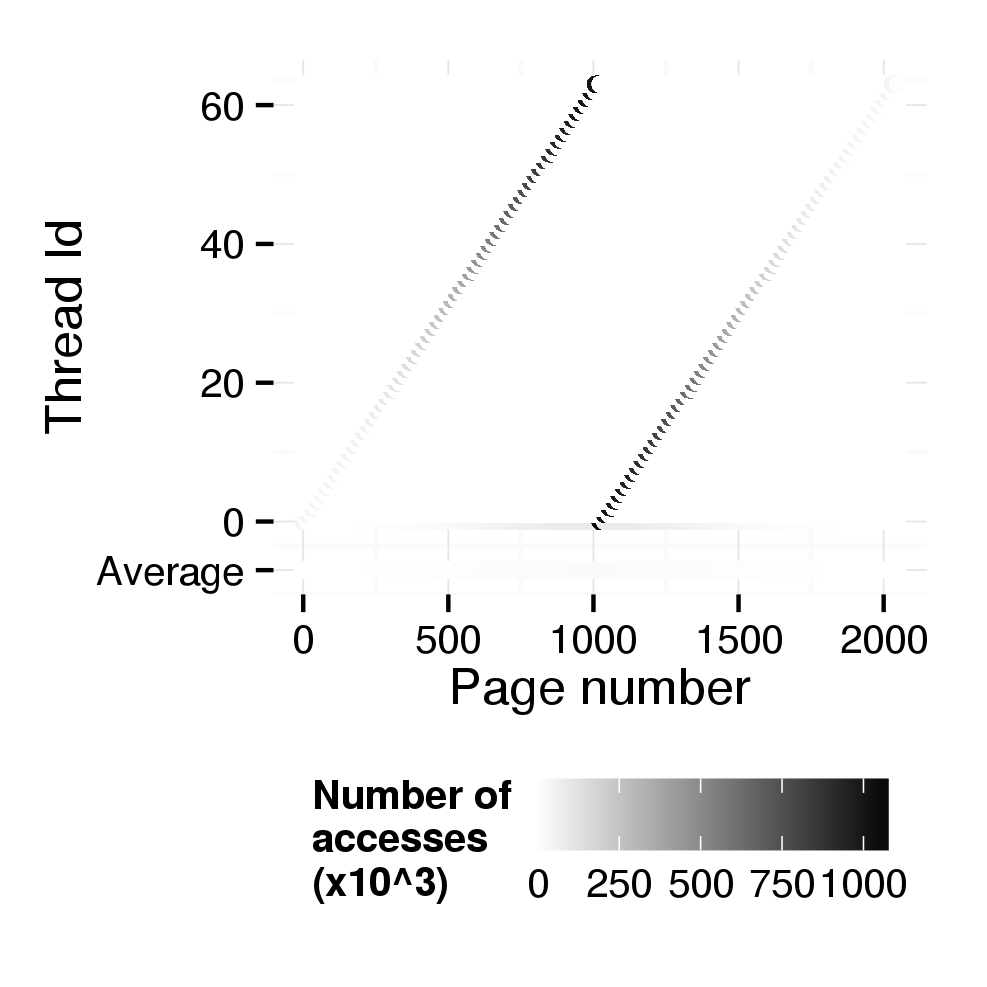
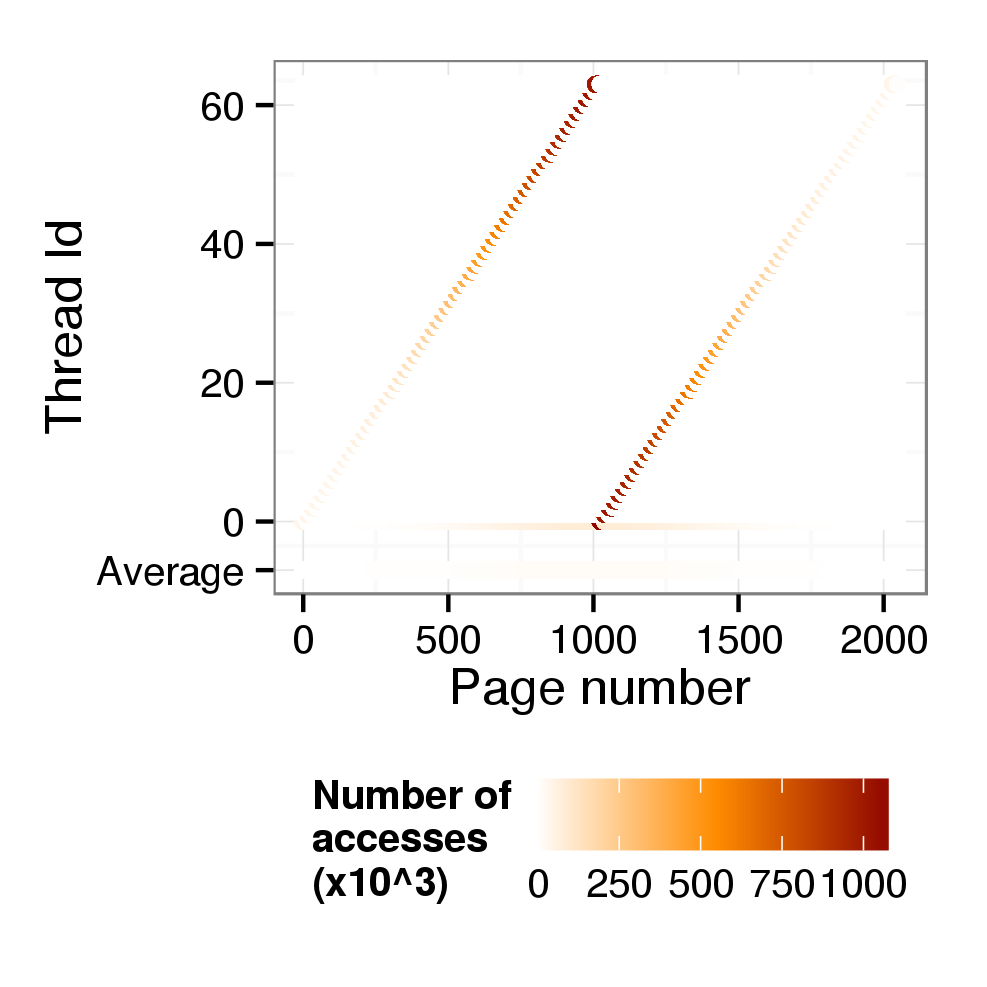
Guillaume remarks wip + colored figures

diff --git a/tex/stateOfTheArt.tex b/tex/stateOfTheArt.tex
@@ -12,9 +12,10 @@ This section presents an overview of related work in the area of data mapping me
 %From a high-level view, data mapping mechanisms can be classified into two categories.
 %Mechanisms that have information about the memory accesses before the application starts executing, and mechanisms without prior information that need to determine the memory access behavior during execution of the parallel application.
 There are two kinds of data mapping mechanisms: the ones which have prior
-information about the memory access and the ones which do not. The first can
-have higher, as the collection of information induce a potentially high overhead, limiting the amount and accuracy of information that can be collected.
-But the second do not require any prior analysis.
+information about the memory accesses and the ones which do not. The formers can
+have higher improvements, as the collection of information induce a
+potentially high overhead, limiting the quantity and accuracy of information that can be collected.
+But the others do not require any prior analysis.
 %Furthermore, opportunities for improvements are lost while information about the memory access pattern is collected.
 %On the other hand, if the memory access behavior is analyzed during application execution, no prior analysis is required.
 %Figure~\ref{fig:timeline} shows a comparison of the operation of these two types of applications with a parallel application consisting of four threads.
@@ -38,14 +39,14 @@ In next-touch~\cite{Lof2005}, each page is periodically migrated to the NUMA
 node that performs the next access to a page. This technique is more flexible
 but can lead to excessive page migrations.
 The interleave policy (available in Linux via the \texttt{numactl}
-tool~\cite{Kleen2004}) distributes memory pages equally among all NUMA nodes,
-avoiding to stress a memory controller more than the others, but does not take any locality into account.
+tool~\cite{Kleen2004}) distributes memory pages cyclically among all NUMA nodes,
+usually avoiding load imbalance among memory controllers, but does not take any locality into account.
 
 Newer developments in operating systems focus on refining the data mapping during the execution of parallel applications, using online profiling.
 Recent versions of the Linux kernel (starting with version 3.8) contain the
 NUMA Balancing technique~\cite{Corbet}, which uses page faults to determine if
-a page should be migrated to a different NUMA node. To increase the accuracy
-of this mechanism, extra page faults are inserted at runtime, creating an additional overhead.
+a page should be migrated to a different NUMA node.%To increase the accuracy
+%of this mechanism, extra page faults are inserted at runtime, creating an additional overhead.
 %A similar proposal is the AutoNUMA approach~\cite{Corbet2012}.
 %Neither mechanism maintains an access history. This eliminates the need to store the access behavior, but also makes them susceptible to excessive migrations.
 %Other proposals store such an access history.
@@ -59,33 +60,43 @@ of this mechanism, extra page faults are inserted at runtime, creating an additi
 %\subsubsection{Mechanisms With Prior Information}
 
 Most mechanisms with prior information about memory access behavior perform
-mapping on the compiler, the runtime or at a library level.
+mapping in the compiler, the runtime or at a library level.
 Piccoli et al.~\cite{Piccoli2014} propose a compiler extension that analyzes
-the memory access pattern of parallel loops use this information to migrate
+the memory accesses patterns of parallel loops and uses this information to migrate
 pages before executing the loop.
 %Nikolopoulos et al.~\cite{Nikolopoulos2000a,Nikolopoulos2000} present an integrated compiler/OS-based data mapping mechanism based on a custom OpenMP compiler and IRIX kernel extensions. The compiler inserts instrumentation code to identify access patterns to shared memory areas and to guide migration decisions.
+\DB{Rewrite next sentence}
 ForestGOMP~\cite{Broquedis2010a} requires source code annotations to identify memory access behavior and is limited to the OpenMP library.
 These techniques use predictions about the memory access behavior, which might be dependent on input data and can cause wrong mappings.
 %Furthermore, no improvements to the memory access pattern are performed.
 
-Libraries such as libnuma~\cite{Kleen2004} and MAi~\cite{Ribeiro2009} provide the ability
-to allocate data structures on a particular NUMA node, or with an interleave
-policy. These techniques can achieve large improvements, but place the burden
-of the mapping on the programmer, who has to determine the best placement
-alone.
+Previous research also uses memory access traces to perform data mapping~\cite{Diener2015,Marathe2010,Bolosky1992}. These can be useful to determine the maximum gains that can be achieved with mapping policies, but are not applicable in general due to their substantial overhead and the fact that the access behavior might change with different input data and different numbers of threads, for instance.
+
+
+Libraries such as libnuma~\cite{Kleen2004} and MAi~\cite{Ribeiro2009} provide
+the ability to allocate data structures on a particular NUMA node, or with an
+interleave policy. These techniques can achieve large improvements, it
+requires a deep understanding of the applications memory behavior to use them
+efficiently.
+Generic tools to evaluate parallel application performance, such as Intel's
+VTune~\cite{Reinders05VTune} and Performance Counter
+Monitor~(PCM)~\cite{Intel2012b}, the HPCToolkit~\cite{Adhianto10HPCTOOLKIT},
+and AMD's CodeAnalyst~\cite{Drongowski2008}, provide only indirect information
+about the memory access behavior which is not enough to use correctly these
+library. Our study provides tools to easily understand this memory behavior
+and therefore be able to take advantage of these libraries.
+
 % An evolution of MAi, the Minas framework~\cite{Ribeiro2010}, optionally uses a source code preprocessor to determine data mapping policies for arrays.
 %
-Previous research also uses memory access traces to perform data mapping~\cite{Diener2015,Marathe2010,Bolosky1992}. These can be useful to determine the maximum gains that can be achieved with mapping policies, but are not applicable in general due to their substantial overhead and the fact that the access behavior might change with different input data and different numbers of threads, for instance.
-Generic tools to evaluate parallel application performance, such as Intel's VTune~\cite{Reinders05VTune} and Performance Counter Monitor~(PCM)~\cite{Intel2012b}, the HPCToolkit~\cite{Adhianto10HPCTOOLKIT}, and AMD's CodeAnalyst~\cite{Drongowski2008}, provide only indirect information about the memory access behavior and do not propose specific strategies to improve it.
-
 
 \subsection{Memory Profiling}
 \label{sec:soa-profiling}
 
-Profiling memory behavior raise two main challenges, first collecting the
+Profiling memory behavior raise two main challenges. The first one is the
+collect of
 information: if performance counters have been developed to get quick and
 easy access to information about the CPU usage, there is no such mechanism for
-the memory. Second memory access traces provides huge amounts of information
+the memory. Regarding the second one, memory access traces provides huge amounts of information
 on several dimension (data structure, threads, access type (read/write),
 sharing, time \ldots) displaying them to the user in a readable and meaningful
 way is therefore not trivial.
@@ -93,11 +104,11 @@ way is therefore not trivial.
 \subsubsection{Data collection}
 
 Several methods have been used to address the problem of data collection. A
-lot of studies tries to deduce information from hardware performance
+lot of studies deduce information from hardware performance
 counters~\cite{Majo13(Mis)understanding,
 Jiang14Understanding,Bosch00Rivet,Weyers14Visualization,Tao01Visualizing,DeRose01Hardware},
-special registers that allow to record events such as cache misses and remote
-memory accesses, among others. Still, these counters only provide a partial
+which are special registers that allow to record events such as cache misses and remote
+memory accesses. Still, these counters only provide a partial
 view of the execution, they show events happening on the processor related to
 memory, but not what triggered them. Moreover available performance counters
 depends of the architecture therefore it is hard to reproduce the same
@@ -106,7 +117,7 @@ analysis on different machines with these tools.
 
 Another approach used by several
 tools~\cite{Lachaize12MemProf,McCurdy2010,Liu14Tool,Gimenez14Dissecting}
-consist on  using sampling mechanisms such as AMD's Instruction Based Sampling
+consist in using sampling mechanisms such as AMD's Instruction Based Sampling
 (IBS)~\cite{Drongowski07Instructionbased} or Intel PEBS. Not only can sampling miss important events, leading to
 inaccurate characterizations, but these technologies are not portable and work
 only with a few recent architecture, therefore such tools can only be used in
@@ -118,7 +129,7 @@ collection it is even less portable.
 
 
 Finally, instrumentation can provide these informations as in
-\cite{DeRose02SIGMA,Rozar14Amelioration}, although this method is slower than
+\cite{DeRose02SIGMA}, although this method is slower than
 the other previously described, it is more portable and precise. Moreover as
 we show in section \ref{sec:expe-overhead} an efficient instrumentation
 provides an acceptable overhead.
@@ -145,7 +156,7 @@ of the execution, giving the ability to correlate them with the source code as
 we are used to do with traditional performance tools such as Vtune. Although
 all these tools can help developers and users to understand the kind of
 performance issues they are facing, they never give the reason \emph{why} the
-issue is happening, or how to improve it.
+issue is happening for instance by showing the distribution of accesses inside data structures.
 
 Gimenez et al.~\cite{Gimenez14Dissecting} provides a NUMA oriented view of the
 execution, showing which node is responsible of how many access, moreover they
@@ -173,7 +184,7 @@ it occurs (structure, function, or line of code), still they never tell
 \emph{why} these events happens.  Two kinds of information can help answering
 this question: what thread is responsible for the first touch (as the default
 page mapping depends on it), and how are the structure accessed by the
-different threads. This study provides some tools and methodology to explain
+different threads (distribution). This study provides some tools and methodology to explain
 \emph{why} performance issues related to memory occurs.
 
 %The two main challenges for this type of tool is to gather information about the memory access patterns in a fast, accurate and easy-to-use way, and providing information to the developers about the ways to improve the behavior of their applications.

diff --git a/tex/intro.tex b/tex/intro.tex
@@ -6,31 +6,33 @@
 
 Using memory on modern parallel shared-memory systems with a \emph{Non-Uniform Memory Access~(NUMA)} behavior is both trivial and extremely complex: an application is able to access the whole memory with the same interface, but to use it efficiently, the developer needs to take several performance factors into account, such as the cache hierarchy and the structure of the NUMA architecture~\cite{Drepper07What}.
 NUMA machines are characterized by multiple memory controllers per system~\cite{Awasthi2010}, dividing the physical main memory into several NUMA nodes.
-Each node can access its local memory directly, but has to transfer data through an interconnection to access memory on remote nodes.
+Each node can access its local memory directly, but has to transfer data
+through an interconnection network to access memory on remote nodes.
 Current systems usually have one memory controller per socket, but architectures with multiple controllers per socket are becoming more common~\cite{AMD2012}.
-In NUMA systems, decisions about where to place the data that a parallel application uses have a significant impact on the overall performance, with most policies aiming to improve the \emph{locality} of memory accesses~\cite{Diener2015}.
+In NUMA systems, decisions about where to place the data that a parallel
+application uses have a significant impact on the overall performance, with
+most policies aiming at improving the \emph{locality} of memory accesses~\cite{Diener2015}.
 
 The optimal mapping of memory pages to NUMA nodes depends on the way an application accesses the memory.
 To improve the mapping without changing the application, several automatic tools were proposed~\cite{Corbet2012,Corbet,Dashti2013,Diener2014,Piccoli2014}.
-However, these tools have a runtime overhead as they need to learn the application behavior during execution and lose opportunities for improvements during this training.
+However, these tools have a runtime overhead as they need to analyze the application behavior during execution and lose opportunities for improvements during this training.
 Furthermore, they are not able to change the memory access pattern for additional improvements.
 Therefore, if the memory behavior is not designed for NUMA machines, their improvements might be limited.
-For instance, if all threads are accessing data from a memory
-page in the same way, remote memory accesses will be triggered from all NUMA nodes but one, independent of where the page is mapped.
-This kind of issue can only be solved by modifying the memory access behavior in the source code of the application, requiring a deep understanding of its behavior.
+For instance, if all threads are accessing data from a single memory
+page, remote memory accesses will be triggered from all NUMA nodes but one,
+wherever the page is mapped.
+This kind of issue can only be solved by modifying the memory access behavior
+in the source code of the application, requiring a deep understanding of this behavior.
 
 Several tools, such as Intel's VTune~\cite{Reinders05VTune} and Performance Counter Monitor~(PCM)~\cite{Intel2012b}, the HPCToolkit~\cite{Adhianto10HPCTOOLKIT}, and AMD's CodeAnalyst~\cite{Drongowski2008}, can be used to help the
 developer understand and improve the performance of parallel applications.
 However, these tools rely on hardware performance counters and can therefore provide only indirect and sampled information about the memory access behavior, through cache miss statistics, for example.
-Tracing the memory behavior is complex, as many instructions trigger at least one memory access.
-Although several studies have addressed this problem using sampling
+Indeed tracing the memory behavior is complex, as many instructions trigger at least one memory access.
+Several studies have addressed this problem using sampling
 \cite{Lachaize12MemProf,McCurdy2010,Gimenez14Dissecting},
-still they tells \emph{what} happens (remote access, cache miss \ldots),
-\emph{where} (data structure, line of code), but it never tells \emph{why} it
-occurs. More specifically these studies do not show how data structure are
-accessed by the different threads, which one is responsible for the first
-access (which is a primordial information as it define the default page
-mapping).
+and can find out \emph{what} happens (remote access, cache miss \ldots),
+\emph{where} (data structure, line of code), but not how data structure are
+accessed and shared by the different threads (which causes the remote access).
 
 In this paper, we present \TABARNAC\footnote{\TABARNAC is available at
     \url{https://github.com/dbeniamine/Tabarnac}}, a set of \emph{Tools and
@@ -40,7 +42,8 @@ and methodologies to visualize the memory access behavior of parallel
 applications, more precisely it helps to understand \emph{why} performance
 issues occurs by providing information on how data structures are used by the
 different threads.
-Since it is based on memory access traces, \TABARNAC has a very high accuracy while maintaining a reasonable overhead that allows analysis of large applications.
+Since it is based on memory accesses traces, \TABARNAC has a very high
+accuracy while maintaining a reasonable overhead that enables the analysis of large applications.
 In an evaluation with several parallel applications, we show that relatively small code changes suggested by \TABARNAC can substantially improve application performance.
 
 The rest of this paper is organized as follows.

diff --git a/tabarnac.tex b/tabarnac.tex
@@ -179,25 +179,27 @@ Philippe O. A. Navaux\\
 
 \begin{abstract}
 
-In modern parallel architectures, memory accesses represent a common bottleneck, making optimizing their behavior necessary to achieve optimal performance. This is even more important with NUMA
-memories, as the access time to data depends on the location of the data in
+In modern parallel architectures, memory accesses represent a common
+bottleneck. This optimizing the way applications access to memory. This is even more important with NUMA
+memories, as the access time to data depends on its location in
 the memory. Many efforts were made to
 develop adaptive tools to improve memory accesses at the runtime by optimizing
 the mapping of data and threads to NUMA nodes.  However, theses tools are not
 able to change the memory access pattern of the original application,
 therefore a code written without considering memory performance might
-not benefit from them. Moreover, automatic mapping tools need time to detect the
-best mapping loosing optimization opportunities. A
-deeper understanding of the memory behavior can help defining the best mapping
+not benefit from them. Moreover, automatic mapping tools take time to converge
+towards the best mapping loosing optimization opportunities. A
+deeper understanding of the memory behavior can help defining the best initial mapping
 removing the need for runtime analysis.
 
-In this paper, we present \TABARNAC, a set of tools and methodologies for analyzing the memory behavior of parallel applications with a focus on NUMA architectures.
-Our main contributions are to provide a simple yet precise analysis of the behavior, allowing the
-user to easily reach a deep understanding of the memory usage.
+In this paper, we present \TABARNAC, a tool for analyzing the memory behavior of parallel applications with a focus on NUMA architectures.
+Our main contributions are to provide some visualization of the access
+distribution by thread and by structure. Such visualization allows the
+user to easily understand why performance issues occurs.
 Using \TABARNAC, we explain why some applications do not benefit from data
 and thread mapping. Moreover, we propose several simple code modifications to
-improve the memory access behavior. Finally, we compare the impact of our
-proposition to automated tools.
+improve the memory access behavior of some applications. Finally, we compare
+the performance gain of our proposition to automated tools.
 %
 \end{abstract}
 % A category with the (minimum) three required fields
